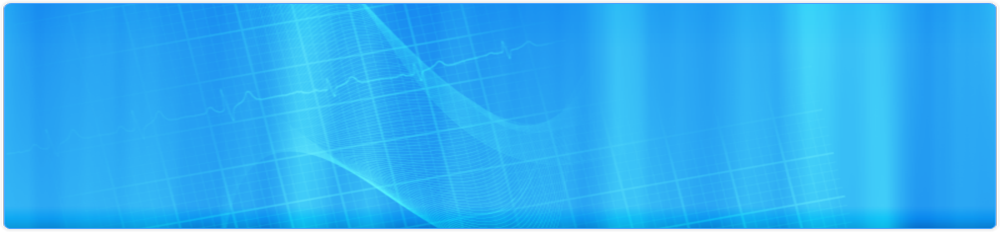
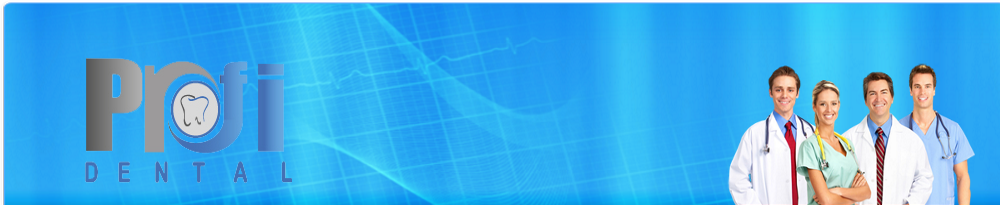
Interfaces

diff --git a/ClienteSistemaClinica/src/main/webapp/resources/css/styles.css b/ClienteSistemaClinica/src/main/webapp/resources/css/styles.css
@@ -30,34 +30,19 @@ body{
 
 #divMenu{
     width: 100%;
-    height: 40px;
-    margin: 0px;
-}
-#divImagen{
-    width: 50%;
-    height: 180px;
+    height: 30px;
     margin: 0px;
     float: left;
-    background: url("../images/header-object.png");
-}
-#divLogo{
-    width: 50%;
-    height: 180px;
-    margin: 0px;
-    float: left;
-    background-image: url("../images/textblock-bg.png")!important;
 }
 #divHeader{
-    background-image: url("../images/header.png")!important;
+    background: url("../images/header.png")!important;
+    height: 187px;
+    width: 988px;
 }
+
 #j_idt11{
     margin: 0px!important;
 }
 j_idt18{
     height: 350px!important;
-}
-.ui-layout-unit ui-widget ui-widget-content ui-corner-all ui-layout-center ui-layout-pane ui-layout-pane-center
-{
-    height: 350px!important;
-    position: absolute!important;
 }
